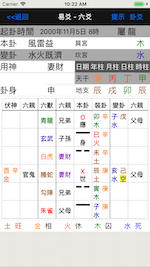
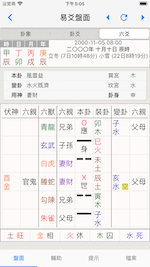
change pics and functions for calcyi

diff --git a/pages/detail_yi.html b/pages/detail_yi.html
@@ -180,7 +180,7 @@
   <div class="row">
     <div class="col"></div>
     <div class="col-8">
-      <p>易爻，易經中的數學。是一款根據梅花易數的和六爻原理進行占卜的軟體。</p>
+      <p>易爻，易經中的數學。是一款結合梅花易數和六爻等進行起卦預測的軟體。</p>
 
     </div>
     <div class="col"></div>
@@ -191,22 +191,18 @@
     <div class="col-8">
       <div class="container">
         <ul class="list-group">
-          <li class="list-group-item list-group-item-dark"><i class="fa fa-tags"></i>採用梅花易數中數位起卦的方式，採用的是兩個數位起卦方式；</li>
-          <li class="list-group-item list-group-item-light"><i class="fa fa-tags"></i>結合占卜的時間，排列出本卦，互卦和變卦各個卦象；</li>
-          <li class="list-group-item list-group-item-dark"><i class="fa fa-tags"></i>根據各個卦象之間的五行關係列出吉凶；</li>
-          <li class="list-group-item list-group-item-light"><i class="fa fa-tags"></i>排列出起卦時間對應的五行四柱，給占卜更多參考資訊；</li>
-          <li class="list-group-item list-group-item-dark"><i class="fa fa-tags"></i>支援時間起卦；</li>
-          <li class="list-group-item list-group-item-light"><i class="fa fa-tags"></i>支援六爻起卦和六爻分析盤；</li>
-          <li class="list-group-item list-group-item-dark"><i class="fa fa-tags"></i>支援9種數字起卦方法；</li>
-          <li class="list-group-item list-group-item-light"><i class="fa fa-tags"></i>支援基礎說明；</li>
-          <li class="list-group-item list-group-item-dark"><i class="fa fa-tags"></i>支援卦象和參考評論；</li>
-          <li class="list-group-item list-group-item-light"><i class="fa fa-tags"></i>支援保存和維護起卦資料；</li>
-          <li class="list-group-item list-group-item-dark"><i class="fa fa-tags"></i>支援反吟，伏吟的判断提示；</li>
-          <li class="list-group-item list-group-item-light"><i class="fa fa-tags"></i>提供周易卦和爻的內容；</li>
-          <li class="list-group-item list-group-item-dark"><i class="fa fa-tags"></i>支持簡體/繁體；</li>
-          <li class="list-group-item list-group-item-light"><i class="fa fa-tags"></i>提供各爻與動/變/伏/日/月等互動提示；</li>
-          <li class="list-group-item list-group-item-dark"><i class="fa fa-tags"></i>支持自定組合卦象起卦；</li>
-          <li class="list-group-item list-group-item-light"><i class="fa fa-tags"></i>支持常用神煞提示；</li>
+          <li class="list-group-item list-group-item-dark"><i class="fa fa-tags"></i>支援時間，多種數字起卦，六爻，自定組合以及類象加方位等起卦方法；</li>
+          <li class="list-group-item list-group-item-light"><i class="fa fa-tags"></i>結合起卦時間，排列出本卦，互卦和變卦各個卦象，根據各個卦象之間的五行關係列出吉凶；</li>
+          <li class="list-group-item list-group-item-dark"><i class="fa fa-tags"></i>排列出起卦時間對應的五行四柱，給占卜更多參考資訊；</li>
+          <li class="list-group-item list-group-item-light"><i class="fa fa-tags"></i>排列成六爻盤詳細信息，包括反吟/伏吟/伏神等詳細信息；</li>
+          <li class="list-group-item list-group-item-dark"><i class="fa fa-tags"></i>給出對應本/互/變相信的周易信息，便於查詢參考；</li>
+          <li class="list-group-item list-group-item-light"><i class="fa fa-tags"></i>包含常用神煞提示，焦氏易林，六爻各爻位與日月等關係的提示信息；</li>
+          <li class="list-group-item list-group-item-dark"><i class="fa fa-tags"></i>可保存數據並支持模糊查詢，數據文件可全平臺導入/導出使用；</li>
+          <li class="list-group-item list-group-item-light"><i class="fa fa-tags"></i>支援簡體/繁體切換；</li>
+          <li class="list-group-item list-group-item-dark"><i class="fa fa-tags"></i>給出常用用神提示，便於起卦分析；</li>
+          <li class="list-group-item list-group-item-light"><i class="fa fa-tags"></i>在輔助盤還給出地支提示，各類象，小成圖等信息，便於分析查詢；</li>
+          <li class="list-group-item list-group-item-dark"><i class="fa fa-tags"></i>對於適用的起卦方法，支持動態切換前後時間，便於找尋應期等信息；</li>
+          <li class="list-group-item list-group-item-light"><i class="fa fa-tags"></i>提供經典摘錄，神煞說明等幫助信息，便於上手學習；</li>
           <li class="list-group-item list-group-item-dark"><i class="fa fa-list-ol"></i>...更多功能請下載使用體驗。</li>
         </ul>
       </div>  

diff --git a/pages/detail_yi_cn.html b/pages/detail_yi_cn.html
@@ -180,7 +180,7 @@
   <div class="row">
     <div class="col"></div>
     <div class="col-8">
-      <p>易爻，易经中的数学。是一款根据梅花易数的和六爻原理进行占卜的软体。</p>
+      <p>易爻，易经中的数学。是一款结合梅花易数和六爻等进行起卦预测的软体。</p>
 
     </div>
     <div class="col"></div>
@@ -191,22 +191,18 @@
     <div class="col-8">
       <div class="container">
         <ul class="list-group">
-          <li class="list-group-item list-group-item-dark"><i class="fa fa-tags"></i>采用梅花易数中数位起卦的方式，采用的是两个数位起卦方式；</li>
-          <li class="list-group-item list-group-item-light"><i class="fa fa-tags"></i>结合占卜的时间，排列出本卦，互卦和变卦各个卦象；</li>
-          <li class="list-group-item list-group-item-dark"><i class="fa fa-tags"></i>根据各个卦象之间的五行关系列出吉凶；</li>
-          <li class="list-group-item list-group-item-light"><i class="fa fa-tags"></i>排列出起卦时间对应的五行四柱，给占卜更多参考资讯；</li>
-          <li class="list-group-item list-group-item-dark"><i class="fa fa-tags"></i>支援时间起卦；</li>
-          <li class="list-group-item list-group-item-light"><i class="fa fa-tags"></i>支援六爻起卦和六爻分析盘；</li>
-          <li class="list-group-item list-group-item-dark"><i class="fa fa-tags"></i>支援9种数字起卦方法；</li>
-          <li class="list-group-item list-group-item-light"><i class="fa fa-tags"></i>支援基础说明；</li>
-          <li class="list-group-item list-group-item-dark"><i class="fa fa-tags"></i>支援卦象和参考评论；</li>
-          <li class="list-group-item list-group-item-light"><i class="fa fa-tags"></i>支援保存和维护起卦资料；</li>
-          <li class="list-group-item list-group-item-dark"><i class="fa fa-tags"></i>支援反吟，伏吟的判断提示；</li>
-          <li class="list-group-item list-group-item-light"><i class="fa fa-tags"></i>提供周易卦和爻的内容；</li>
-          <li class="list-group-item list-group-item-dark"><i class="fa fa-tags"></i>支持简体/繁体；</li>
-          <li class="list-group-item list-group-item-light"><i class="fa fa-tags"></i>提供各爻与动/变/伏/日/月等互动提示；</li>
-          <li class="list-group-item list-group-item-dark"><i class="fa fa-tags"></i>支持自定组合卦象起卦；</li>
-          <li class="list-group-item list-group-item-light"><i class="fa fa-tags"></i>支持常用神煞提示；</li>
+          <li class="list-group-item list-group-item-dark"><i class="fa fa-tags"></i>支持时间，多种数字起卦，六爻，自定组合以及类象加方位等起卦方法；</li>
+          <li class="list-group-item list-group-item-light"><i class="fa fa-tags"></i>结合起卦时间，排列出本卦，互卦和变卦各个卦象，根据各个卦象之间的五行关系列出吉凶；</li>
+          <li class="list-group-item list-group-item-dark"><i class="fa fa-tags"></i>排列出起卦时间对应的五行四柱，给占卜更多参考资讯；</li>
+          <li class="list-group-item list-group-item-light"><i class="fa fa-tags"></i>排列成六爻盘详细信息，包括反吟/伏吟/伏神等详细信息；</li>
+          <li class="list-group-item list-group-item-dark"><i class="fa fa-tags"></i>给出对应本/互/变相信的周易信息，便于查询参考；</li>
+          <li class="list-group-item list-group-item-light"><i class="fa fa-tags"></i>包含常用神煞提示，焦氏易林，六爻各爻位与日月等关系的提示信息；</li>
+          <li class="list-group-item list-group-item-dark"><i class="fa fa-tags"></i>可保存数据并支持模糊查询，数据文件可全平台导入/导出使用；</li>
+          <li class="list-group-item list-group-item-light"><i class="fa fa-tags"></i>支持简体/繁体切换；</li>
+          <li class="list-group-item list-group-item-dark"><i class="fa fa-tags"></i>给出常用用神提示，便于起卦分析；</li>
+          <li class="list-group-item list-group-item-light"><i class="fa fa-tags"></i>在辅助盘还给出地支提示，各类象，小成图等信息，便于分析查询；</li>
+          <li class="list-group-item list-group-item-dark"><i class="fa fa-tags"></i>对于适用的起卦方法，支持动态切换前后时间，便于找寻应期等信息；</li>
+          <li class="list-group-item list-group-item-light"><i class="fa fa-tags"></i>提供经典摘录，神煞说明等帮助信息，便于上手学习；</li>
           <li class="list-group-item list-group-item-dark"><i class="fa fa-list-ol"></i>...更多功能请下载使用体验。</li>
         </ul>
       </div>  
